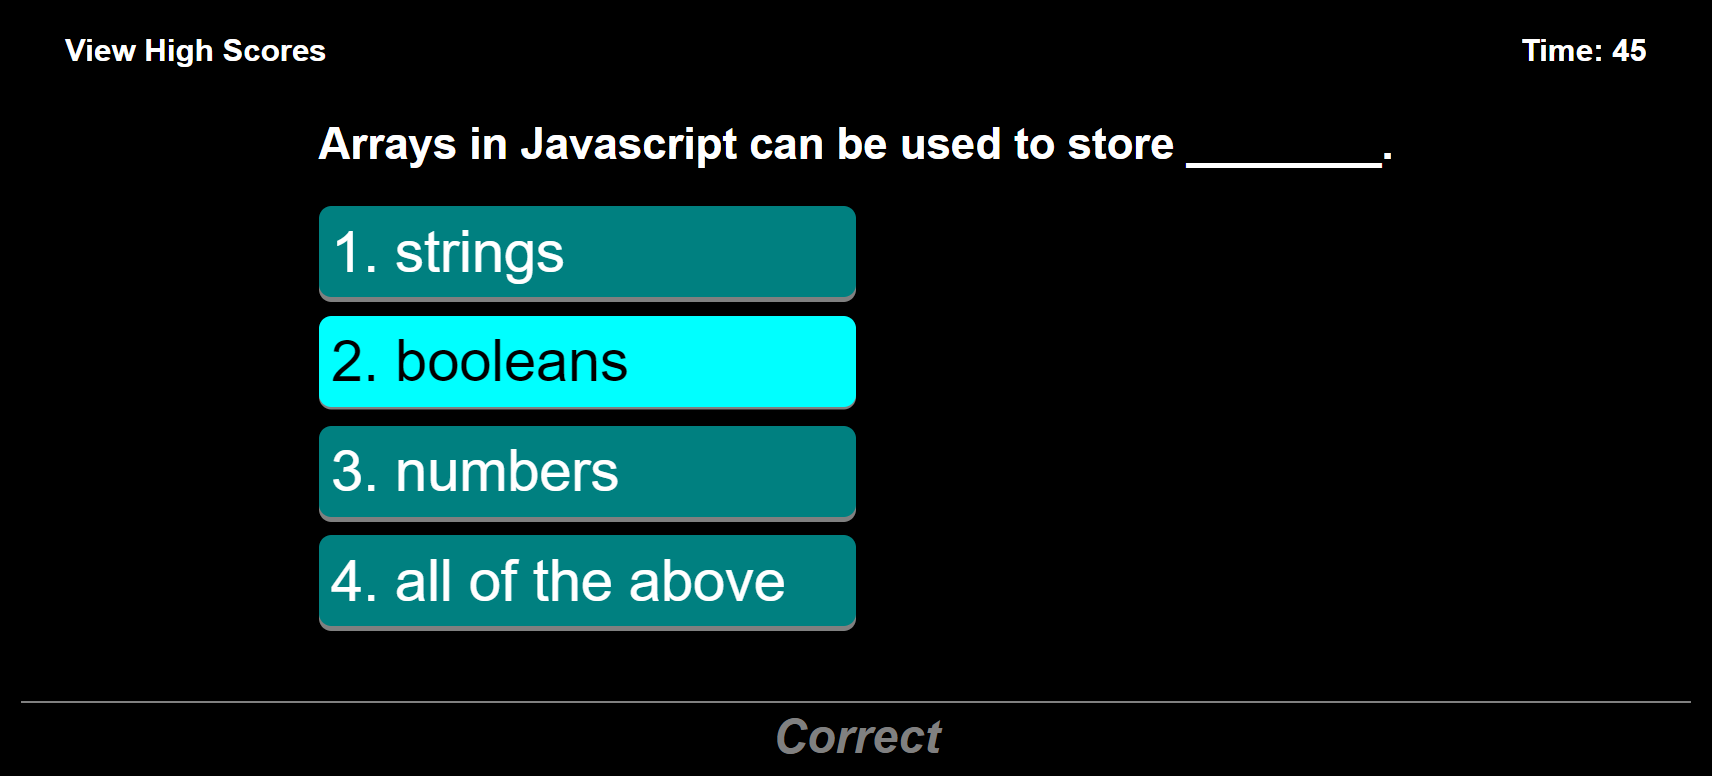
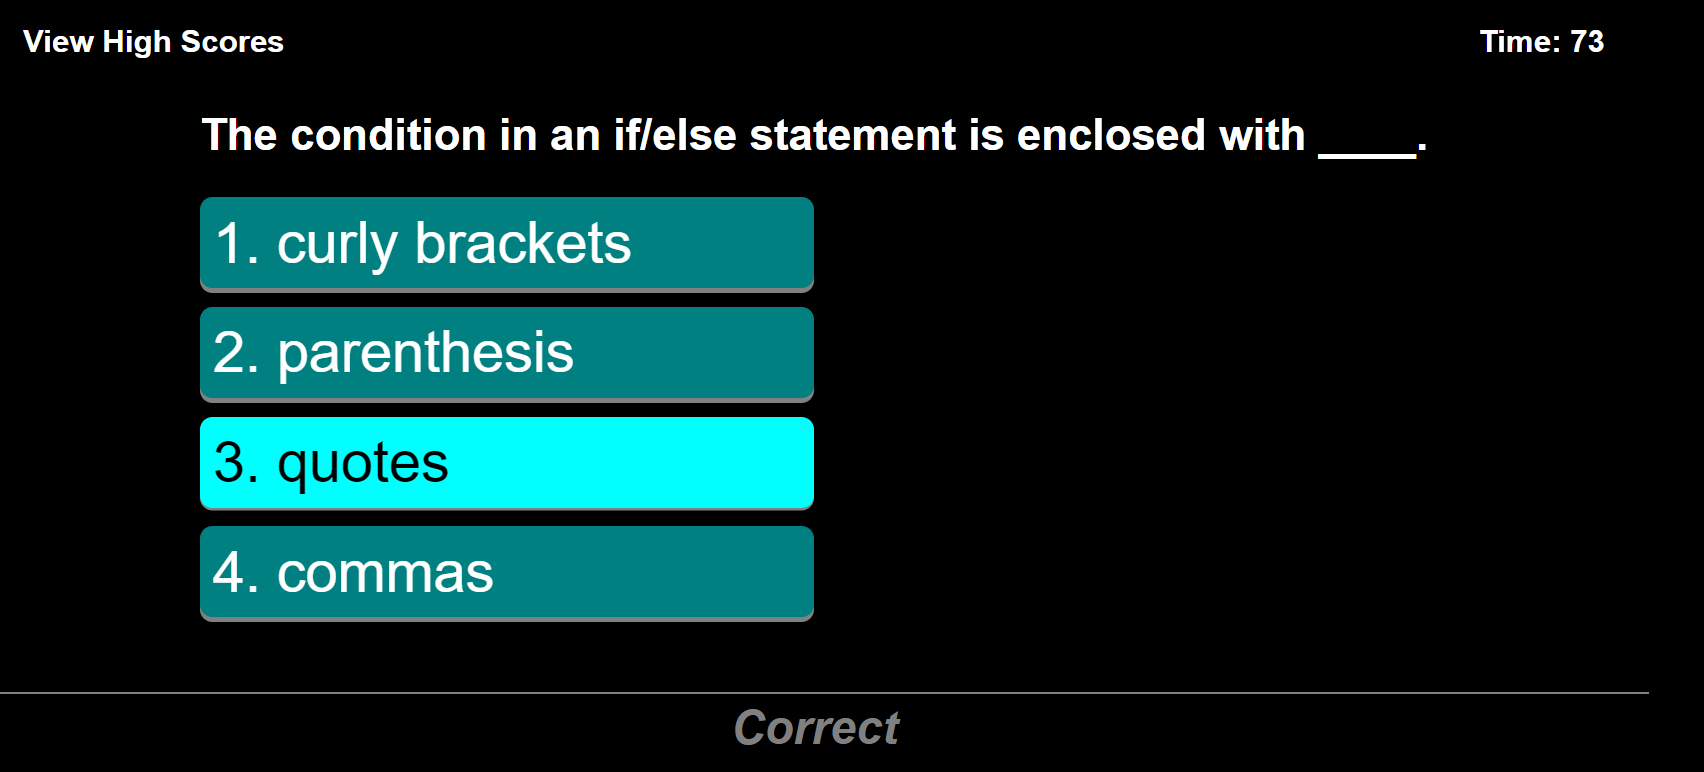
Added gitignore & changed some questions

diff --git a/assets/js/script.js b/assets/js/script.js
@@ -43,29 +43,29 @@ var QuestionIndex = 0
 
   var questions = [
 
-    { q: 'Which of the following is not required to create a for loop?', 
-      a: '3. Variable', 
-      choices: [{choice: '1. Condition'}, {choice: '2. Increment'}, {choice: '3. Variable'}, {choice: '4. Initialization'}]
+    { q: 'Commonly used data types do NOT include:', 
+      a: '3. alerts', 
+      choices: [{choice: '1. strings'}, {choice: '2. booleans'}, {choice: '3. alerts'}, {choice: '4. numbers'}]
     },
 
-    { q: 'In an if/else statement, what are conditions placed within?', 
-      a: '2. Parenthesis', 
-      choices: [{choice: '1. Curly brackets'}, {choice: '2. Parenthesis'}, {choice: '3. Apostrophes'}, {choice: '4. Commas'}]
-    },
-
-    { q: 'A loop that never ends is called a ________.', 
-      a: '1. infinite loop', 
-      choices: [{choice: '1. infinite loop'}, {choice: '2. for loop'}, {choice: '3. while loop'}, {choice: '4. none of the above'}]
+    { q: 'The condition in an if/else statement is enclosed with ____.', 
+      a: '2. parenthesis', 
+      choices: [{choice: '1. curly brackets'}, {choice: '2. parenthesis'}, {choice: '3. quotes'}, {choice: '4. commas'}]
     },
 
     { q: 'Arrays in Javascript can be used to store ________.', 
     a: '4. all of the above', 
     choices: [{choice: '1. strings'}, {choice: '2. booleans'}, {choice: '3. numbers'}, {choice: '4. all of the above'}]
     },
+
+    { q: 'String values must be enclosed within _____ when being assigned to variables.', 
+      a: '1. quotes', 
+      choices: [{choice: '1. quotes'}, {choice: '2. commas'}, {choice: '3. curly brackets'}, {choice: '4. parenthesis'}]
+    },
         
-    { q: '_____ is the process of locating and correcting errors within a program.', 
-      a: '1. Debugging', 
-      choices: [{choice: '1. Debugging'}, {choice: '2. Executing'}, {choice: '3. Scanning'}, {choice: '4. Compiling'}]    
+    { q: 'A very useful tool used during development and debugging for printing content to the debugger is:', 
+      a: '4. console.log', 
+      choices: [{choice: '1. JavaScript'}, {choice: '2. terminal/bash'}, {choice: '3. for loop'}, {choice: '4. console.log'}]    
     },
     {},
   ];
